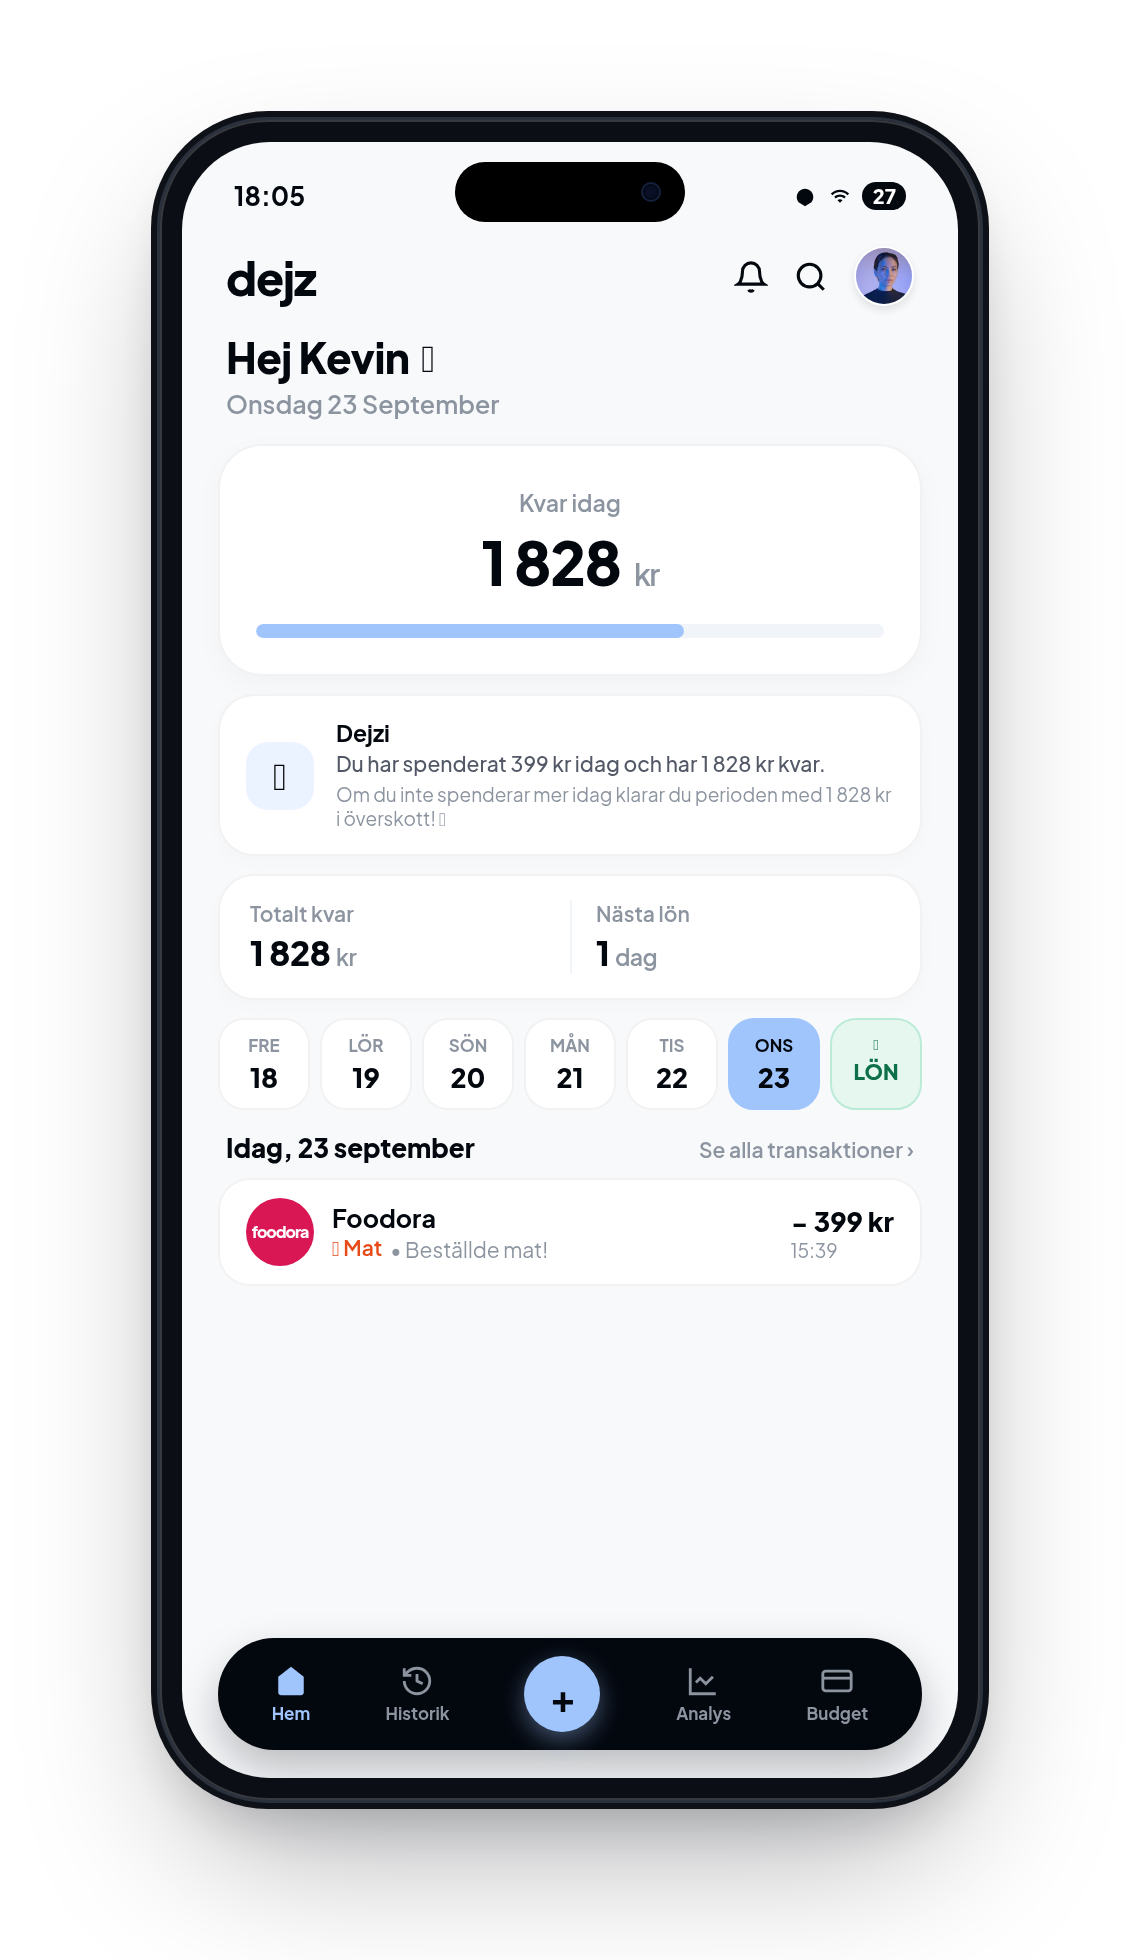
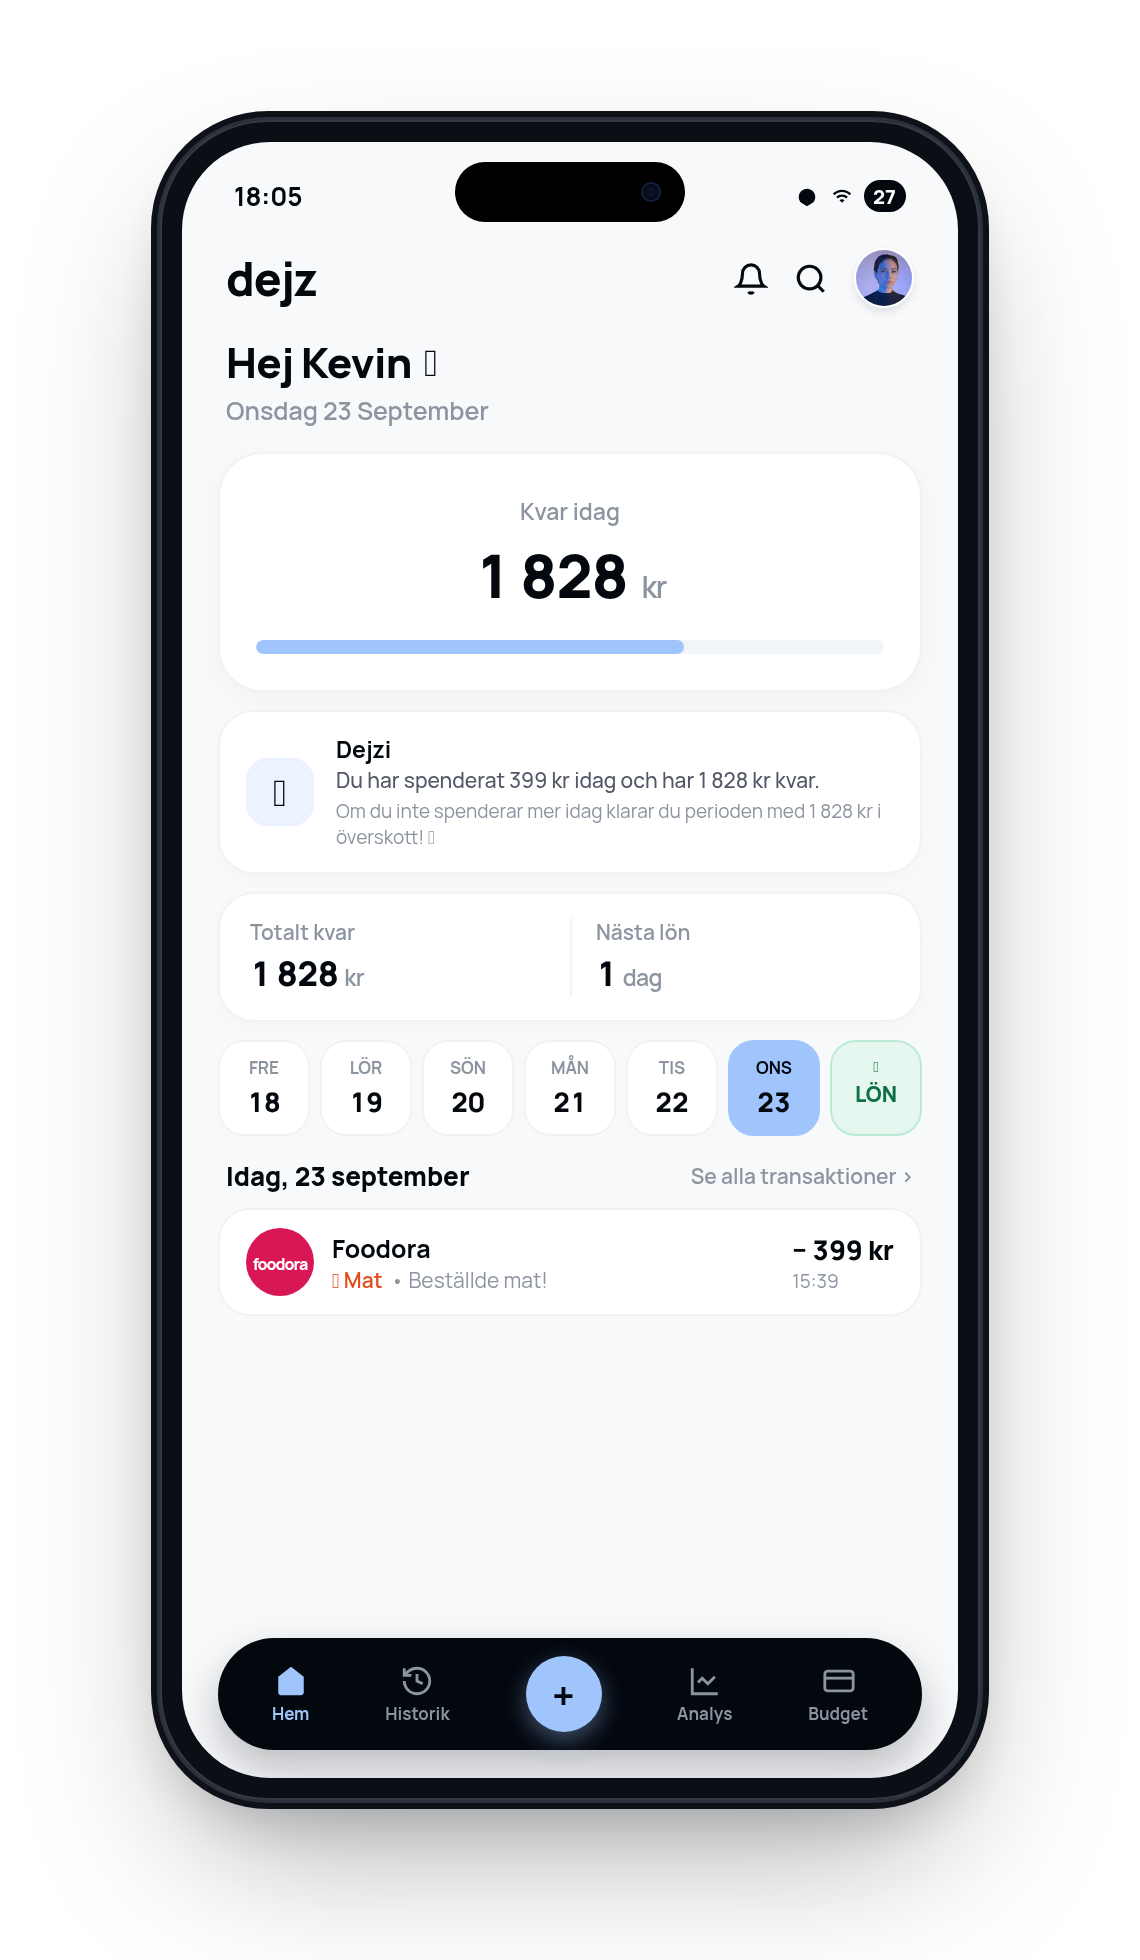
dsf

diff --git a/src/components/LandingPage.tsx b/src/components/LandingPage.tsx
@@ -361,7 +361,7 @@ export function LandingPage({
                 DIN EKONOMI. DAG FÖR DAG.
               </div>
 
-              <h1 className="text-4xl sm:text-6xl lg:text-[68px] font-extrabold tracking-tight text-[#03070E] leading-[1.06]">
+              <h1 className="font-display text-4xl sm:text-6xl lg:text-[68px] font-bold tracking-[-0.03em] text-[#03070E] leading-[1.06]">
                 Se exakt vad du kan<br />
                 <span className="text-[#03070E]">spendera idag.</span>
               </h1>
@@ -412,7 +412,7 @@ export function LandingPage({
         <section className="py-20 sm:py-32 px-5 sm:px-8 border-t border-black/[0.06] bg-white">
           <div className="max-w-5xl mx-auto space-y-12 sm:space-y-16">
             <div className="max-w-2xl space-y-5">
-              <h2 className="text-3xl sm:text-5xl font-extrabold tracking-tight text-[#03070E] leading-[1.12]">
+              <h2 className="font-display text-3xl sm:text-5xl font-bold tracking-tight text-[#03070E] leading-[1.12]">
                 Pengar på kontot är inte samma sak som pengar att spendera.
               </h2>
               <p className="text-lg sm:text-xl text-[#525866] font-normal leading-relaxed">
@@ -466,7 +466,7 @@ export function LandingPage({
         {/* 4. SÅ FUNGERAR DEJZ */}
         <section id="how-it-works" className="py-20 sm:py-32 px-5 sm:px-8 max-w-7xl mx-auto space-y-16">
           <div className="max-w-2xl space-y-4">
-            <h2 className="text-3xl sm:text-5xl font-extrabold tracking-tight text-[#03070E] leading-[1.12]">
+            <h2 className="font-display text-3xl sm:text-5xl font-bold tracking-tight text-[#03070E] leading-[1.12]">
               Från din ekonomi till ett enda tydligt belopp.
             </h2>
             <p className="text-lg sm:text-xl text-[#525866] font-normal leading-relaxed">
@@ -536,7 +536,7 @@ export function LandingPage({
               <span className="inline-block text-xs font-bold uppercase tracking-[0.2em] text-[#A0C5FD]">
                 Dynamisk beräkning
               </span>
-              <h2 className="text-3xl sm:text-5xl lg:text-6xl font-extrabold tracking-tight text-[#FFFFFF] leading-[1.08]">
+              <h2 className="font-display text-3xl sm:text-5xl lg:text-6xl font-bold tracking-[-0.02em] text-[#FFFFFF] leading-[1.08]">
                 Din ekonomi förändras.<br />
                 Din dagsbudget gör det också.
               </h2>
@@ -584,7 +584,7 @@ export function LandingPage({
         {/* 6. PRODUKTEN (Ljus stor sektion med stora placeholders i alternerande layout) */}
         <section id="features" className="py-24 sm:py-36 px-5 sm:px-8 max-w-7xl mx-auto space-y-24 sm:space-y-36">
           <div className="max-w-3xl space-y-4">
-            <h2 className="text-3xl sm:text-5xl lg:text-6xl font-extrabold tracking-tight text-[#03070E] leading-[1.1]">
+            <h2 className="font-display text-3xl sm:text-5xl lg:text-6xl font-bold tracking-[-0.02em] text-[#03070E] leading-[1.1]">
               Allt du behöver för att förstå dina pengar.
             </h2>
           </div>
@@ -670,7 +670,7 @@ export function LandingPage({
         <section id="privacy" className="py-20 sm:py-32 px-5 sm:px-8 border-t border-black/[0.06] bg-white">
           <div className="max-w-5xl mx-auto space-y-16">
             <div className="max-w-2xl space-y-4">
-              <h2 className="text-3xl sm:text-5xl font-extrabold tracking-tight text-[#03070E] leading-[1.12]">
+              <h2 className="font-display text-3xl sm:text-5xl font-bold tracking-tight text-[#03070E] leading-[1.12]">
                 Din ekonomi. Din kontroll.
               </h2>
               <p className="text-lg sm:text-xl text-[#525866] font-normal leading-relaxed">
@@ -757,7 +757,7 @@ export function LandingPage({
           <div className="max-w-7xl mx-auto grid grid-cols-1 lg:grid-cols-12 gap-12 lg:gap-16 items-center">
             <div className="lg:col-span-6 space-y-6 sm:space-y-8">
               <div className="space-y-4">
-                <h2 className="text-3xl sm:text-5xl font-extrabold tracking-tight text-[#03070E] leading-[1.1]">
+                <h2 className="font-display text-3xl sm:text-5xl font-bold tracking-tight text-[#03070E] leading-[1.1]">
                   Förstå Dejz på några sekunder.
                 </h2>
                 <p className="text-lg sm:text-xl text-[#525866] font-normal leading-relaxed">
@@ -792,7 +792,7 @@ export function LandingPage({
         {/* 10. FAQ (Accordion) */}
         <section id="faq" className="py-20 sm:py-32 px-5 sm:px-8 max-w-4xl mx-auto space-y-12">
           <div className="space-y-4 text-center sm:text-left">
-            <h2 className="text-3xl sm:text-5xl font-extrabold tracking-tight text-[#03070E] leading-[1.12]">
+            <h2 className="font-display text-3xl sm:text-5xl font-bold tracking-tight text-[#03070E] leading-[1.12]">
               Det du kanske undrar.
             </h2>
           </div>
@@ -845,7 +845,7 @@ export function LandingPage({
               DIN EKONOMI. DAG FÖR DAG.
             </span>
 
-            <h2 className="text-4xl sm:text-6xl lg:text-7xl font-extrabold tracking-tight text-[#FFFFFF] leading-[1.06]">
+            <h2 className="font-display text-4xl sm:text-6xl lg:text-7xl font-bold tracking-[-0.03em] text-[#FFFFFF] leading-[1.06]">
               Sluta gissa.<br />
               Se vad du kan spendera idag.
             </h2>

diff --git a/src/index.css b/src/index.css
@@ -1,21 +1,23 @@
-@import url("https://fonts.googleapis.com/css2?family=Manrope:wght@400;500;600;700;800&family=Plus+Jakarta+Sans:ital,wght@0,300;0,400;0,500;0,600;0,700;0,800;1,400;1,500;1,600;1,700&display=swap");
+@import url("https://fonts.googleapis.com/css2?family=Bricolage+Grotesque:opsz,wght@12..96,600..800&family=Manrope:wght@400;500;600;700;800&display=swap");
 @import "tailwindcss";
 @custom-variant dark (&:where(.dark, .dark *));
 
 @theme {
   --color-black: #18191e;
   --font-sans:
-    "Plus Jakarta Sans", -apple-system, BlinkMacSystemFont, "Segoe UI", sans-serif;
+    "Manrope", -apple-system, BlinkMacSystemFont, "Segoe UI", Roboto, sans-serif;
   --font-display:
-    "Plus Jakarta Sans", sans-serif;
+    "Bricolage Grotesque", -apple-system, BlinkMacSystemFont, sans-serif;
+  --font-title:
+    "Bricolage Grotesque", -apple-system, BlinkMacSystemFont, sans-serif;
   --font-amount:
     "Manrope", -apple-system, BlinkMacSystemFont, "Segoe UI", sans-serif;
   --font-logo:
-    "Plus Jakarta Sans", sans-serif;
+    "Manrope", sans-serif;
   --font-serif:
-    "Plus Jakarta Sans", sans-serif;
+    "Manrope", sans-serif;
   --font-mono:
-    "Plus Jakarta Sans", monospace;
+    "Manrope", monospace;
 
   --color-accent: var(--accent-color);
   --color-accent-hover: var(--accent-hover);
@@ -47,25 +49,23 @@ button,
 input,
 select,
 textarea {
-  font-family: "Plus Jakarta Sans", -apple-system, BlinkMacSystemFont, "Segoe UI", sans-serif;
+  font-family: "Manrope", -apple-system, BlinkMacSystemFont, "Segoe UI", Roboto, sans-serif;
 }
 
-@utility font-serif {
-  font-family: "Plus Jakarta Sans", sans-serif;
+@utility font-display {
+  font-family: "Bricolage Grotesque", -apple-system, BlinkMacSystemFont, sans-serif;
+  letter-spacing: -0.025em;
 }
 
-@utility font-logo {
-  font-family: "Plus Jakarta Sans", sans-serif;
+@utility font-title {
+  font-family: "Bricolage Grotesque", -apple-system, BlinkMacSystemFont, sans-serif;
+  letter-spacing: -0.025em;
 }
 
 @utility font-amount {
   font-family: "Manrope", -apple-system, BlinkMacSystemFont, "Segoe UI", sans-serif;
   font-variant-numeric: tabular-nums;
   font-feature-settings: "tnum" 1;
-}
-
-@utility font-display {
-  font-family: "Plus Jakarta Sans", sans-serif;
 }
 
 @utility no-scrollbar {

diff --git a/index.html b/index.html
@@ -31,10 +31,10 @@
     <meta name="twitter:description" content="Få full kontroll över din personliga ekonomi med Dejz. Hantera utgifter, inkomster och sparande på ett enkelt sätt." />
     <meta name="twitter:image" content="/favicon.png" />
 
-    <!-- Fonts - Plus Jakarta Sans & Manrope for Amounts -->
+    <!-- Fonts - Bricolage Grotesque & Manrope -->
     <link rel="preconnect" href="https://fonts.googleapis.com">
     <link rel="preconnect" href="https://fonts.gstatic.com" crossorigin>
-    <link href="https://fonts.googleapis.com/css2?family=Manrope:wght@400;500;600;700;800&family=Plus+Jakarta+Sans:ital,wght@0,300;0,400;0,500;0,600;0,700;0,800;1,400;1,500;1,600;1,700&display=swap" rel="stylesheet">
+    <link href="https://fonts.googleapis.com/css2?family=Bricolage+Grotesque:opsz,wght@12..96,600..800&family=Manrope:wght@400;500;600;700;800&display=swap" rel="stylesheet">
 
     <!-- Schema.org Structured Data -->
     <script type="application/ld+json">
